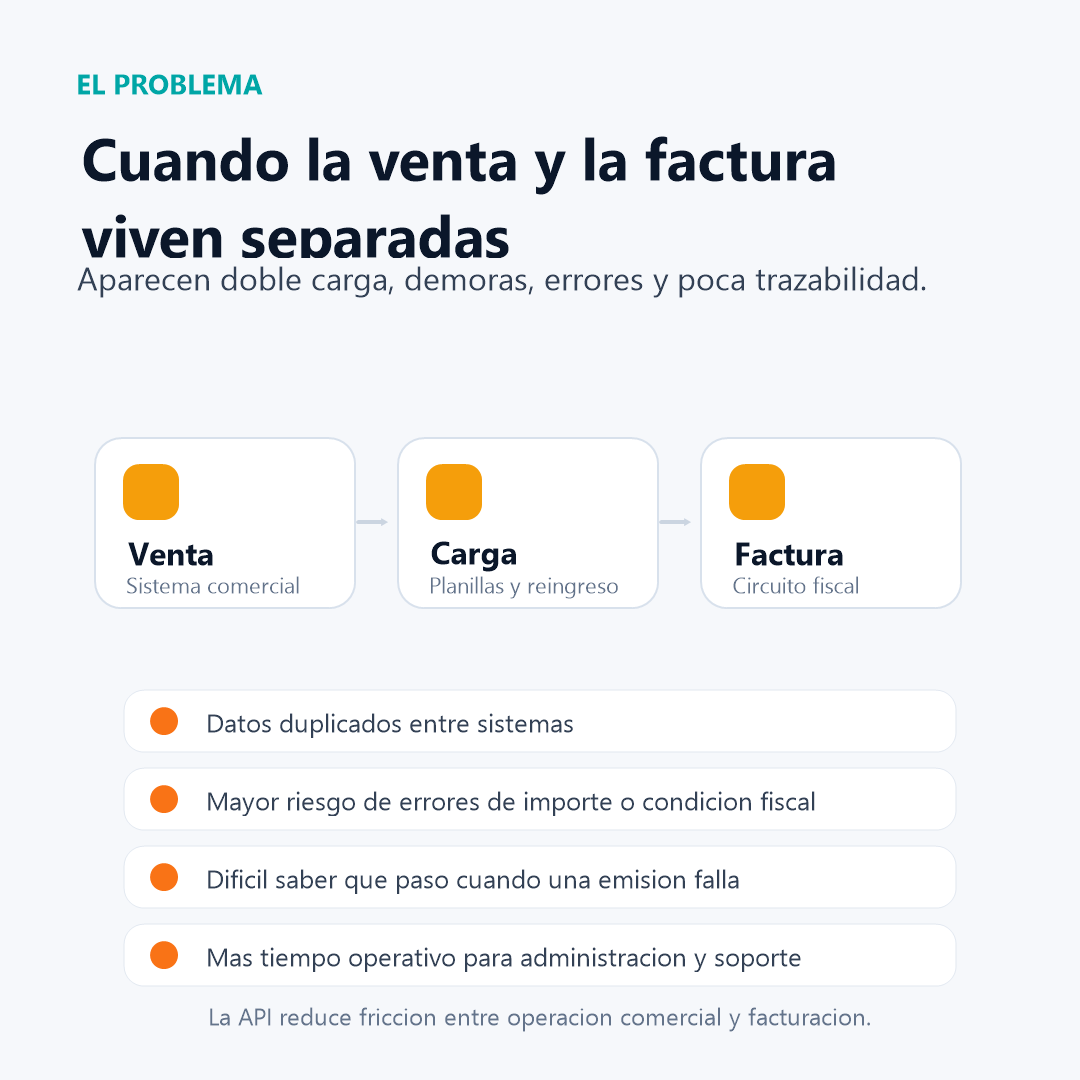
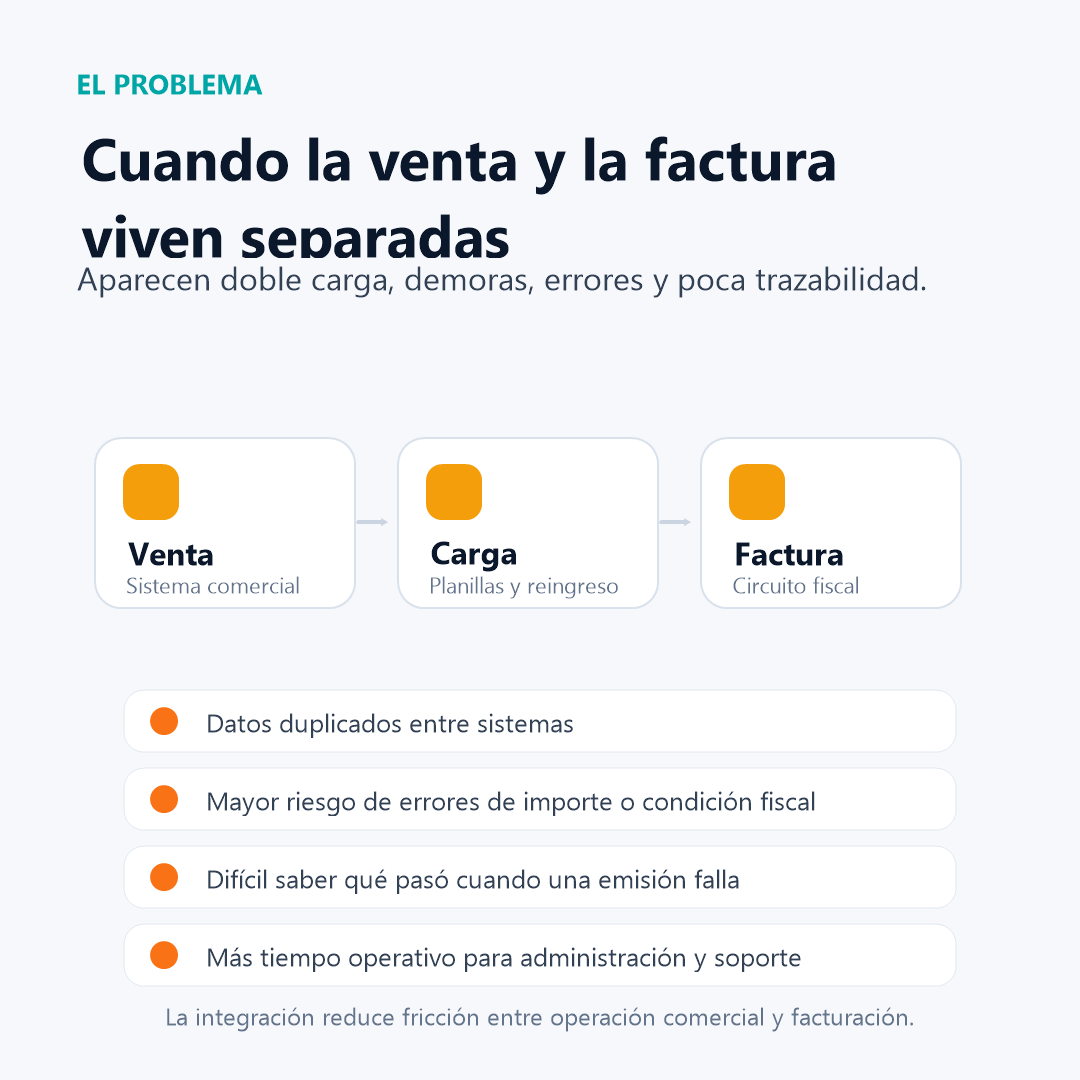
docs: refine LinkedIn carousel positioning

Changed region(s): [[0.1528, 0.9167, 0.825, 0.9472]]

diff --git a/docs/linkedin-api-arca-post.md b/docs/linkedin-api-arca-post.md
@@ -1,24 +1,25 @@
-# Borrador LinkedIn - API ARCA
+# Borrador LinkedIn - API Fiscal para ARCA
 
 ## Copy principal
 
-Presentamos API ARCA: una capa de integración fiscal pensada para sistemas de gestión, facturación y automatización comercial.
+Presentamos **API Fiscal para ARCA**: una integración técnica pensada para sistemas de gestión, facturación, SaaS y automatización comercial.
 
-El problema es simple: muchos sistemas venden, cobran o registran operaciones, pero la parte fiscal queda separada, manual o difícil de auditar. Eso genera doble carga, demoras, errores de carga y poca trazabilidad cuando hay que revisar qué pasó con un comprobante.
+Muchos sistemas venden, cobran o registran operaciones, pero la parte fiscal queda separada del flujo principal. Eso suele generar doble carga, demoras, errores manuales y poca trazabilidad cuando hay que revisar qué pasó con un comprobante.
 
-API ARCA permite conectar el flujo comercial con la emisión y consulta fiscal desde una API HTTP, centralizando la lógica crítica en un servicio especializado.
+Esta API permite conectar el flujo comercial con la emisión y consulta fiscal desde una API HTTP, centralizando la lógica crítica en un servicio especializado.
 
 Permite:
 
 - Gestionar empresas fiscales por cliente, tenant o unidad de negocio.
-- Emitir comprobantes electrónicos con CAE usando WSAA + WSFEv1.
-- Resolver automáticamente Factura A, B o C según condición fiscal del emisor y receptor.
-- Emitir facturas, notas de crédito y notas de débito.
-- Trabajar con idempotencia para evitar comprobantes duplicados.
-- Registrar intentos, eventos, estados, errores y trazas por operación.
-- Consultar comprobantes por origen comercial, por ejemplo venta, pago, turno u operación interna.
-- Exponer Libro IVA Ventas e IVA Compras para reportes y controles.
-- Operar flujos de CAEA para contingencia cuando aplica.
+- Emitir comprobantes con CAE usando WSAA + WSFEv1.
+- Resolver automáticamente Factura A, B o C según la condición fiscal del emisor y del receptor.
+- Emitir facturas, notas de crédito y notas de débito A/B/C.
+- Usar idempotencia para evitar comprobantes duplicados.
+- Registrar logs, intentos, eventos, estados y `trace_id`.
+- Consultar comprobantes por origen comercial, como venta, pago, turno u operación interna.
+- Conciliar estados inciertos antes de reintentar una emisión.
+- Generar reportes de IVA Ventas e IVA Compras para control y conciliación.
+- Soportar flujos CAEA y reporte informativo posterior cuando corresponda.
 
 ¿Para qué sirve en la práctica?
 
@@ -28,78 +29,94 @@ Beneficios principales:
 
 - Automatización del circuito venta -> comprobante fiscal.
 - Menos carga manual para administración y soporte.
-- Integración directa con sistemas de gestión, SaaS, ERPs y plataformas comerciales.
+- Integración directa con SaaS, ERPs, sistemas de gestión y plataformas comerciales.
 - Trazabilidad técnica y operativa de cada comprobante.
-- Reducción de errores por validaciones, estados controlados e idempotencia.
+- Reintentos seguros mediante idempotencia y conciliación antes de volver a emitir.
 
 La idea no es reemplazar el sistema comercial, sino darle una base fiscal integrable, auditable y mantenible para que la facturación forme parte natural del proceso de negocio.
 
-Si tu sistema vende, agenda, cobra o gestiona operaciones comerciales y todavía la facturación fiscal queda afuera del flujo, esta integración puede simplificar mucho la operación.
+Integración técnica con servicios de ARCA. No constituye una API oficial de ARCA.
+
+Repositorio: github.com/Nixus32xD/apiArca
 
 ## Versión corta
 
-API ARCA conecta sistemas de gestión, facturación y automatización comercial con la emisión fiscal electrónica.
+API Fiscal para ARCA conecta sistemas de gestión, SaaS y automatización comercial con la emisión fiscal electrónica.
 
-Permite emitir comprobantes, resolver Factura A/B/C, evitar duplicados con idempotencia, registrar trazabilidad completa y consultar libros IVA desde una API HTTP.
+Permite emitir comprobantes con CAE vía WSAA + WSFEv1, resolver Factura A/B/C, manejar facturas, NC y ND, evitar duplicados con idempotencia, conciliar estados inciertos y mantener trazabilidad con logs, intentos, eventos y `trace_id`.
 
-Menos carga manual, menos errores y una integración más ordenada entre la operación comercial y el circuito fiscal.
+Integración técnica con servicios de ARCA. No constituye una API oficial de ARCA.
 
 ## Beneficios
 
 - Automatización: emisión fiscal integrada al flujo de venta, cobro, turno u operación comercial.
 - Menos carga manual: evita copiar datos entre sistemas o cargar comprobantes por separado.
 - Integración: API HTTP para SaaS, ERPs, sistemas de gestión y plataformas comerciales.
-- Trazabilidad: logs, intentos, eventos, estados, `trace_id` y búsqueda por origen.
-- Reducción de errores: validaciones fiscales, control de estados inciertos, conciliación e idempotencia.
+- Trazabilidad: logs, intentos, eventos, estados, `trace_id` y búsqueda por origen comercial.
+- Reintentos seguros: idempotencia y conciliación antes de volver a emitir.
+- Control fiscal: reportes de IVA Ventas e IVA Compras para control y conciliación.
+
+## Características reales del proyecto
+
+- Multiempresa / tenant mediante `business_id` o `external_business_id`.
+- Emisión CAE por WSAA + WSFEv1.
+- Facturas, notas de crédito y notas de débito A/B/C.
+- Resolución automática A/B/C con `invoice_mode=auto`.
+- Idempotencia por operación comercial.
+- Logs, intentos, eventos, estados y `trace_id`.
+- Consulta por origen comercial.
+- Conciliación de estados inciertos antes de retry.
+- IVA Ventas / Compras para reportes de control.
+- CAEA y reporte informativo posterior cuando corresponda.
 
 ## Casos de uso
 
-- SaaS multiempresa que necesita facturar por tenant o cliente.
-- Sistema de turnos que emite comprobantes al cerrar una atención.
-- ERP o sistema de gestión que quiere integrar emisión fiscal sin acoplarse directamente a SOAP.
-- Plataforma comercial que necesita registrar ventas, pagos y comprobantes con trazabilidad.
-- Backoffice que requiere Libro IVA Ventas, IVA Compras y control de comprobantes.
-- Operaciones con contingencia CAEA y posterior reporte informativo.
+- SaaS multiempresa.
+- ERP / Gestión.
+- Turnos / Servicios.
+- Pagos.
+- Backoffice / Reporting.
+- Contingencia con flujos CAEA.
 
 ## Ideas para 5 slides
 
-1. Slide 1 - Título
-   Texto: API ARCA para sistemas de gestión y facturación
-   Subtexto: Automatizá la emisión fiscal desde tu flujo comercial.
+1. Slide 1 - Portada
+   Texto: API Fiscal para ARCA
+   Subtexto: Facturación fiscal integrada para sistemas de gestión, SaaS y automatización comercial.
 
 2. Slide 2 - Problema
-   Texto: Cuando la venta y la factura viven separadas, aparecen errores.
-   Subtexto: Doble carga, demoras, comprobantes duplicados y poca trazabilidad.
+   Texto: Cuando la venta y la factura viven separadas.
+   Subtexto: Doble carga, demoras, errores y poca trazabilidad.
 
-3. Slide 3 - Solución
-   Texto: Una API fiscal entre tu sistema y los servicios de emisión.
-   Subtexto: Tu SaaS envía la operación; la API gestiona comprobante, autorización, estados y registro.
+3. Slide 3 - Relación técnica
+   Texto: Qué hace la integración con ARCA.
+   Subtexto: Tu sistema opera por HTTP; la API centraliza la lógica fiscal.
 
 4. Slide 4 - Beneficios
-   Texto: Automatización, integración y control.
-   Subtexto: Menos carga manual, menos errores, auditoría por operación e idempotencia.
+   Texto: Automatización, control y reintentos seguros.
+   Subtexto: Idempotencia y conciliación antes de volver a emitir.
 
 5. Slide 5 - Casos de uso
-   Texto: Gestión, facturación, turnos, ERP y backoffice.
-   Subtexto: Ideal para sistemas que venden, cobran o registran operaciones y necesitan facturación integrada.
+   Texto: Dónde encaja la integración.
+   Subtexto: SaaS, ERP / Gestión, Turnos / Servicios, Pagos, Backoffice / Reporting y Contingencia.
 
 ## Prompts para imágenes profesionales
 
 1. Imagen portada:
-   Prompt: "Professional LinkedIn carousel cover for a fiscal API product named API ARCA, modern SaaS interface, Argentina business context, clean dashboard with invoice status, subtle integration lines, blue and white palette with neutral gray, premium corporate design, sharp typography, no government logos, no official seals"
+   Prompt: "Professional LinkedIn carousel cover for a fiscal API integration product named API Fiscal para ARCA, modern SaaS interface, clean invoice status dashboard, subtle API integration lines, blue and white palette with teal accents, premium corporate design, no government logos, no official seals, no official branding"
 
 2. Problema operativo:
-   Prompt: "Professional illustration of disconnected business systems causing manual invoice work, split screen with sales system, spreadsheet and invoice document, subtle warning markers, modern B2B SaaS visual style, clean composition, neutral office background, no logos"
+   Prompt: "Professional illustration of disconnected business systems causing manual invoice work, sales system, spreadsheet and invoice document, subtle warning markers, modern B2B SaaS visual style, clean composition, neutral background, no logos, no official government branding"
 
 3. Flujo de integración:
-   Prompt: "Clean technical diagram style image showing SaaS or ERP connected to API layer and fiscal invoice authorization service, arrows, audit trail, trace ID, status labels, modern enterprise UI, white background, blue green accents, professional LinkedIn slide"
+   Prompt: "Clean technical diagram style image showing SaaS or ERP connected to a fiscal API layer and ARCA services, WSAA, WSFEv1, authorization result CAE or CAEA, audit trail, trace ID, modern enterprise UI, white background, navy, blue and teal accents, no logos"
 
 4. Beneficios:
-   Prompt: "Modern B2B SaaS benefits slide with five visual modules: automation, less manual work, integration, traceability, error reduction, clean icons, invoice dashboard, elegant corporate layout, high contrast, professional LinkedIn carousel"
+   Prompt: "Modern B2B SaaS benefits slide with five modules: automation, less manual work, integration, traceability, safe retries, clean icons, invoice dashboard, elegant corporate layout, high contrast, professional LinkedIn carousel, no official branding"
 
 5. Casos de uso:
-   Prompt: "Professional product illustration showing multiple business use cases connected to one fiscal API: ERP, SaaS, appointments, payments, backoffice reports, central API hub, clean dashboard screens, modern commercial automation style, no official government branding"
+   Prompt: "Professional product illustration showing use cases connected to one fiscal API integration: SaaS, ERP, appointments and services, payments, backoffice reporting, contingency flows, central API hub, clean dashboard screens, modern commercial automation style, no official government branding"
 
 ## Hashtags
 
-#API #ARCA #FacturacionElectronica #Automatizacion #SistemasDeGestion #ERP #SaaS #IntegracionAPI #Backoffice #TransformacionDigital #Laravel #Fintech #Impuestos #Argentina
+#API #ARCA #FacturacionElectronica #Automatizacion #SistemasDeGestion #ERP #SaaS #IntegracionAPI #Backoffice #Laravel #Argentina
